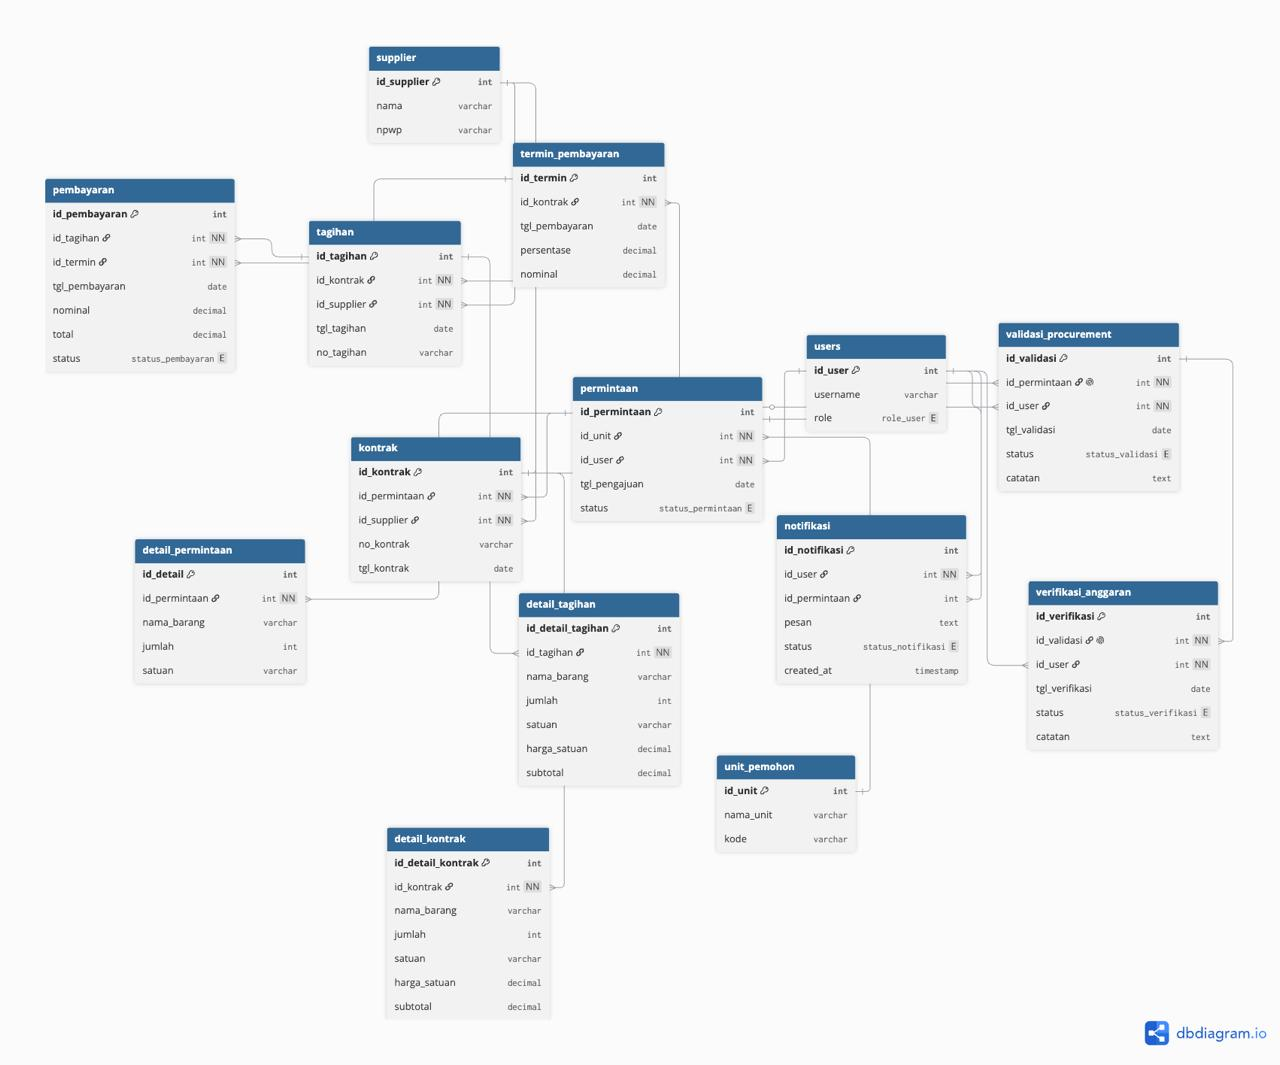
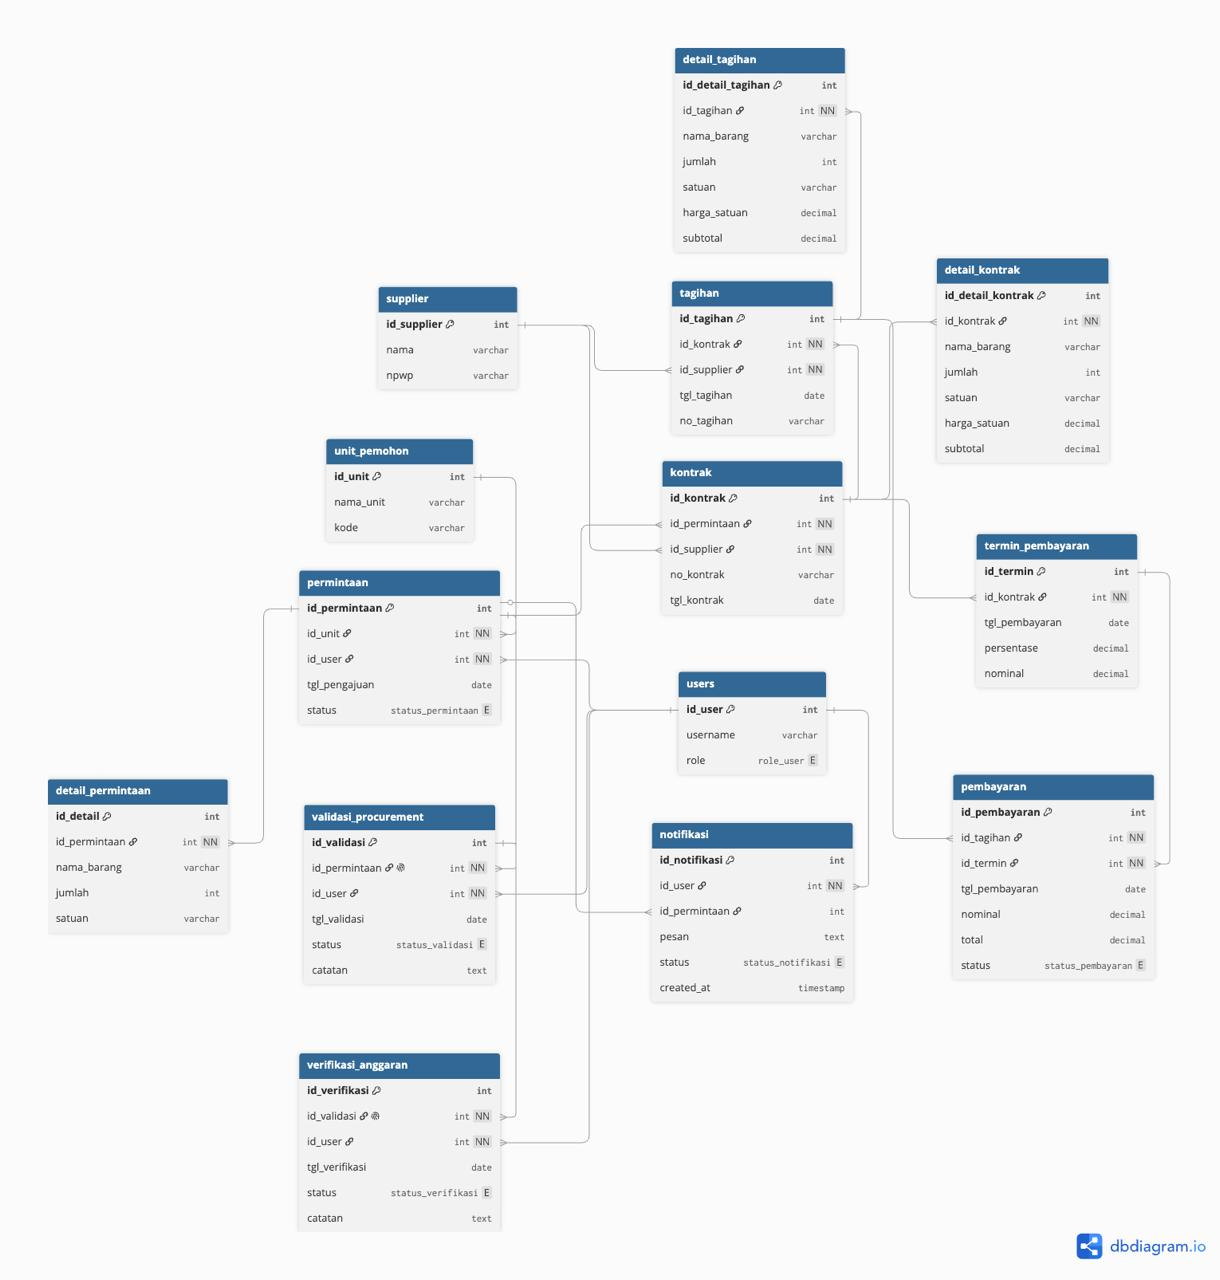
feat: docx pakai PNG BPMN+ERD baru, fix aspect ratio gambar (hitung dari IHDR, no stretch)

diff --git a/src/app/api/download/route.ts b/src/app/api/download/route.ts
@@ -18,6 +18,15 @@ import {
 import { readFileSync } from "fs";
 import { join } from "path";
 
+// Read PNG intrinsic dimensions from IHDR chunk (bytes 16-24)
+function pngSize(buf: Buffer): { w: number; h: number } {
+  if (buf.length < 24) return { w: 600, h: 300 };
+  const w = buf.readUInt32BE(16);
+  const h = buf.readUInt32BE(20);
+  if (!w || !h) return { w: 600, h: 300 };
+  return { w, h };
+}
+
 // Load diagram images
 function loadDiagram(name: string): Buffer {
   try {
@@ -402,18 +411,24 @@ function diagramImage(buf: Buffer, caption: string) {
   if (buf.length === 0) {
     return para(`[Diagram: ${caption}]`);
   }
-  // Calculate dimensions: maintain aspect ratio, max width ~6 inches (900000 EMU)
-  const maxWidthEmu = 550000; // ~6 inches
+  // Maintain real aspect ratio. Fit within usable A4 portrait area
+  // (margins 1in → ~6.3in wide max, cap height for tall/portrait diagrams).
+  const { w, h } = pngSize(buf);
+  const MAX_W = 600; // px-equivalent, ~6.25in
+  const MAX_H = 760; // cap so portrait ERD fits one page
+  let width = MAX_W;
+  let height = Math.round((MAX_W * h) / w);
+  if (height > MAX_H) {
+    height = MAX_H;
+    width = Math.round((MAX_H * w) / h);
+  }
   return new Paragraph({
     alignment: AlignmentType.CENTER,
     spacing: { before: 200, after: 100 },
     children: [
       new ImageRun({
         data: buf,
-        transformation: {
-          width: 600,
-          height: 300,
-        },
+        transformation: { width, height },
         type: "png",
       }),
     ],

diff --git a/src/app/page.tsx b/src/app/page.tsx
@@ -188,7 +188,7 @@ export default function Home() {
             <img
               src="/diagrams/erDiagram.png"
               alt="ERD — Skema Database Sistem Pengadaan Barang"
-              className="mx-auto h-auto w-full max-w-[1100px]"
+              className="mx-auto h-auto w-full max-w-[900px]"
               style={{ minWidth: "600px" }}
             />
           </div>